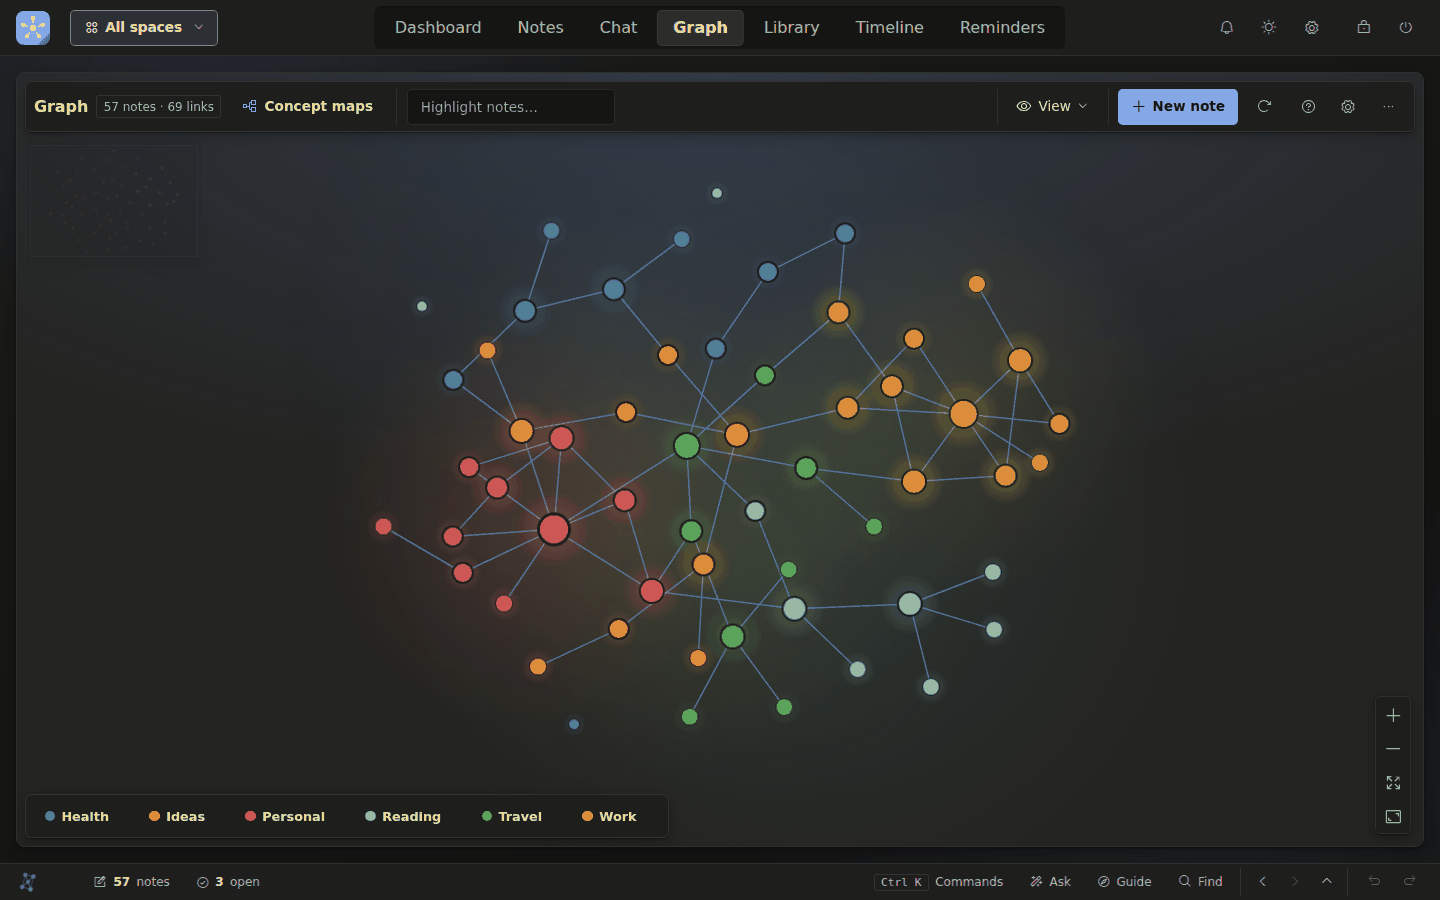
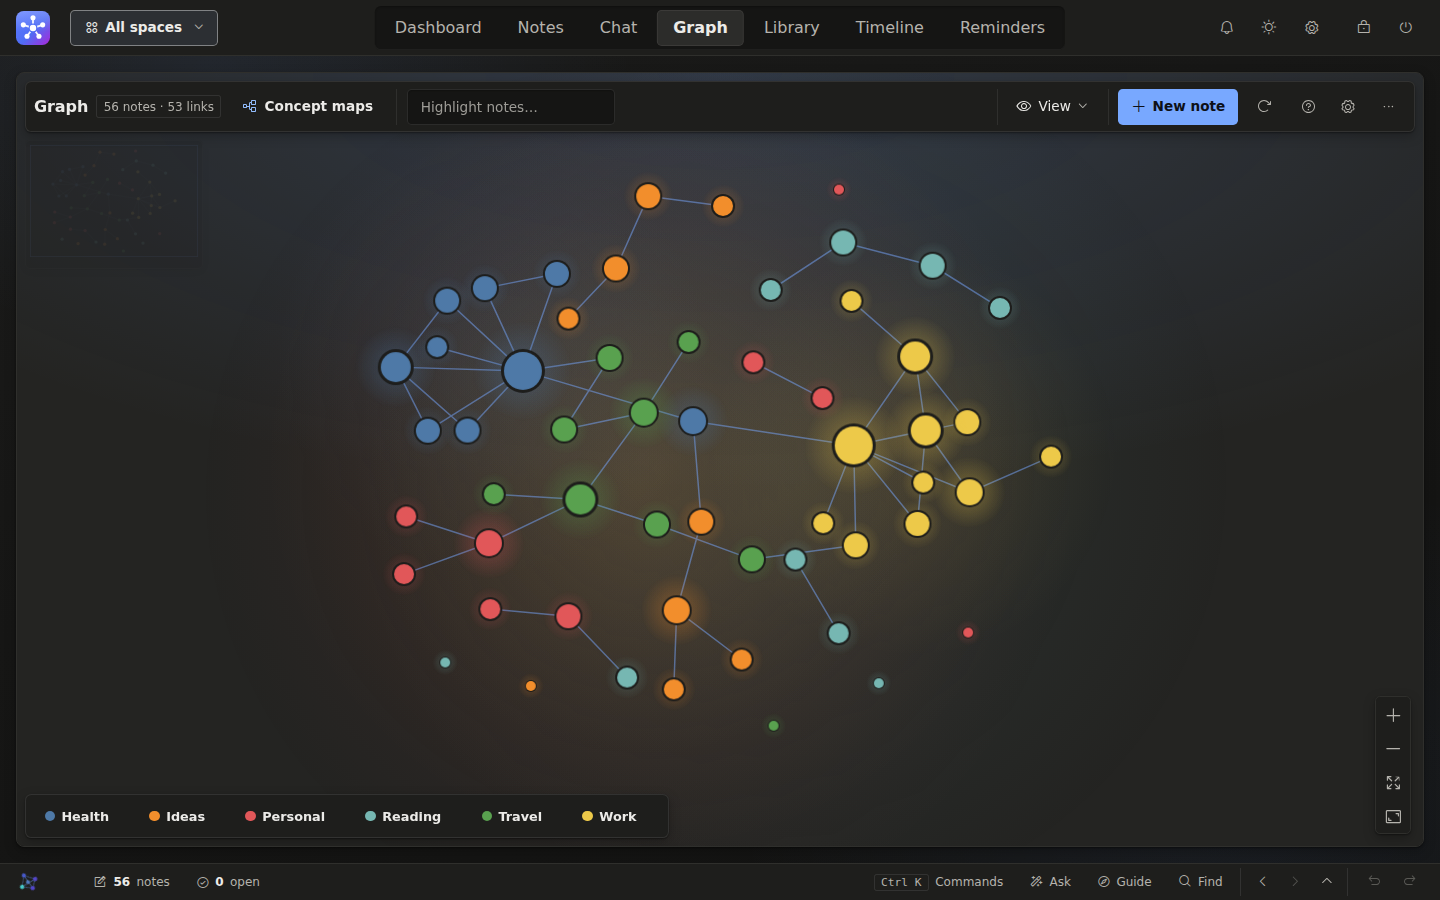
README: the board and graph shots retaken in dark; the graph from a sparse notebook (clusters, hubs, loose notes, plain and reasoned links)
Claude-Session: https://claude.ai/code/session_01Q9yNjL41sRa7fn34bdkhcW

diff --git a/scratchpad/ui-sweeps/seed-graph-links.js b/scratchpad/ui-sweeps/seed-graph-links.js
@@ -34,7 +34,10 @@ const { boot } = require('./lib.js');
       if (sparse) {
         for (let i = 1; i < group.length; i++) {
           if (rnd() < 0.33) continue;
-          add(group[i], group[Math.floor(rnd() * i)], `Both filed under ${cat}`);
+          //: Half the tree's links are plain, made by hand with no reason,
+          //: so the shot shows both kinds (the owner: "some connections with
+          //: and without reasons").
+          add(group[i], group[Math.floor(rnd() * i)], rnd() < 0.5 ? null : `Both filed under ${cat}`);
         }
         continue;
       }
@@ -54,7 +57,7 @@ const { boot } = require('./lib.js');
     if (!sparse) for (let i = 0; i < hubs.length; i++) add(hubs[i], hubs[(i + 1) % hubs.length], 'Two threads that keep meeting');
     let ok = 0, fail = 0;
     for (const [sid, tid, reason] of wanted) {
-      const r = await api(`/entries/${sid}/links`, { method: 'POST', body: JSON.stringify({ target_id: tid, reason }) }).catch(() => null);
+      const r = await api(`/entries/${sid}/links`, { method: 'POST', body: JSON.stringify(reason ? { target_id: tid, reason } : { target_id: tid }) }).catch(() => null);
       if (r && r.ok) ok++; else fail++;
     }
     return { notes: notes.length, cats: Object.keys(byCat).length, wanted: wanted.length, ok, fail };

diff --git a/docs/roadmap/agent-remaining/wrapup-0927.md b/docs/roadmap/agent-remaining/wrapup-0927.md
@@ -115,7 +115,7 @@ work starts.
     now (`nameMarkBuddyFarWay`); the owner asked for a portal and a
     distinct teleport too: add a portal (a ring opens, it steps through,
     one opens where it lands) as a fourth far way.;
-    (v) retake `docs/screenshots/whiteboard.png` (and the map shot) in the
+    (v) done for the board and graph shots (dark); retake the map shot in the
     dark theme: filled cards now take readable ink (`wbCoreInkFor`,
     `scratchpad/ui-sweeps/cardink.js`), and the README leads with dark.
 11. **Docs:** move INBOX 431 to HISTORY once items 1 to 6 are closed; the
